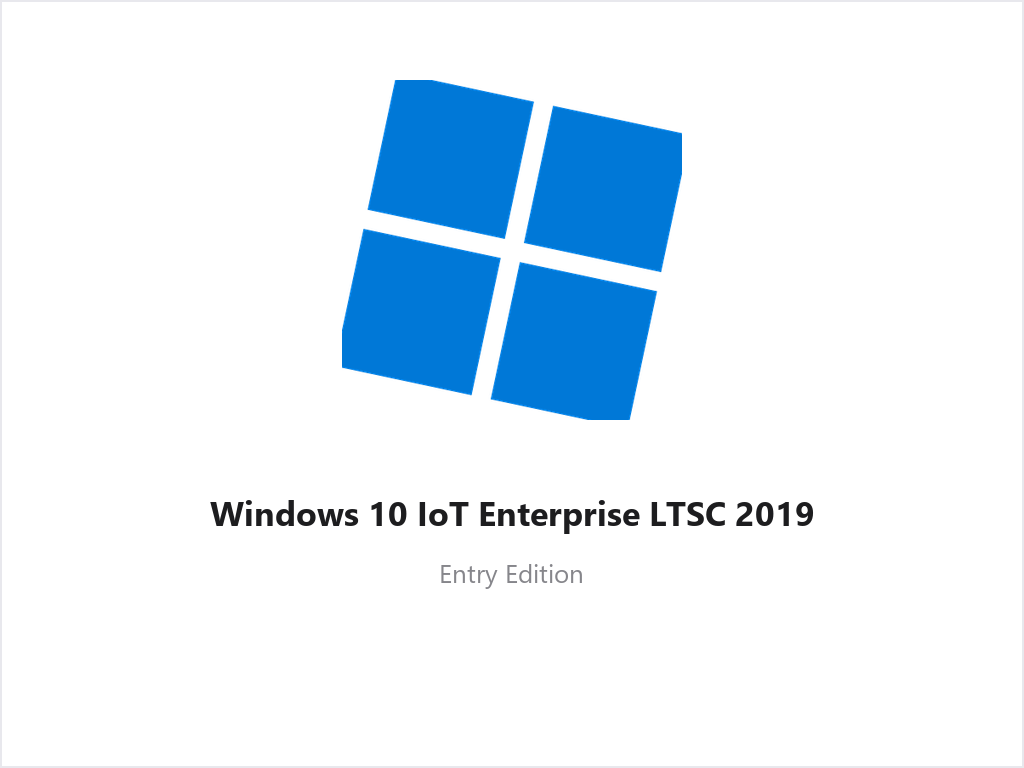
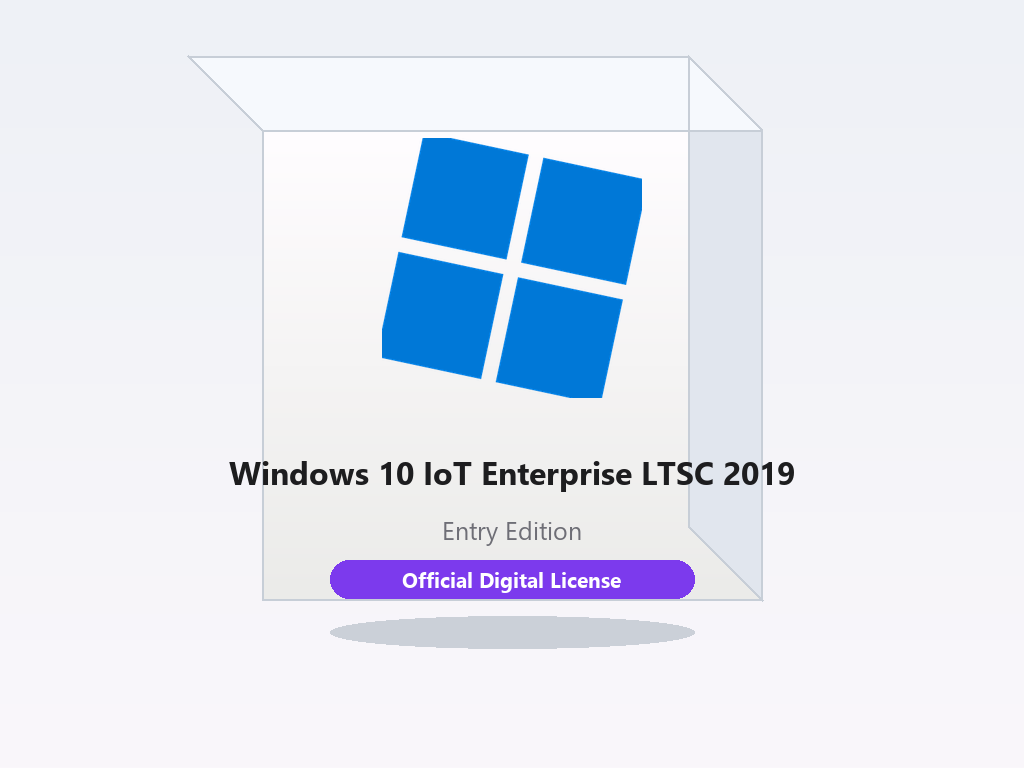
v7.5: upgrade product images to retail box style

diff --git a/dist/index.html b/dist/index.html
@@ -11,7 +11,7 @@
   <link rel="preconnect" href="https://fonts.googleapis.com">
   <link rel="preconnect" href="https://fonts.gstatic.com" crossorigin>
   <link href="https://fonts.googleapis.com/css2?family=Inter:wght@300;400;500;600;700;800&display=swap" rel="stylesheet">
-<link rel="stylesheet" href="https://cdnjs.cloudflare.com/ajax/libs/font-awesome/6.4.0/css/all.min.css">  <script type="module" crossorigin src="/assets/index-BidFnXS6.js"></script>
+<link rel="stylesheet" href="https://cdnjs.cloudflare.com/ajax/libs/font-awesome/6.4.0/css/all.min.css">  <script type="module" crossorigin src="/assets/index-C9FR7aT3.js"></script>
   <link rel="stylesheet" crossorigin href="/assets/index-DKBjzyQS.css">
 </head>
 <body>

diff --git a/scripts/gen-product-images.py b/scripts/gen-product-images.py
@@ -45,30 +45,54 @@ def sql_logo():
 
 def make_image(spec):
     kind, title, subtitle = spec["kind"], spec["title"], spec["subtitle"]
-    img = Image.new("RGB", (1024, 768), (255, 255, 255))
-    logo = None
-    if kind == "win11":
-        logo = Image.open(os.path.join(ROOT, "tmp", "logos", "win11.png")).convert("RGBA")
-        paste_layer(img, logo, 512, 250, 340, 320)
-    elif kind == "win10":
-        paste_layer(img, win10_logo(), 512, 250, 360, 340)
-    elif kind == "office":
-        paste_layer(img, office_logo(), 512, 250, 360, 340)
-    elif kind == "sql":
-        paste_layer(img, sql_logo(), 512, 250, 340, 340)
-    elif kind == "server11":
-        logo = Image.open(os.path.join(ROOT, "tmp", "logos", "win11.png")).convert("RGBA")
-        paste_layer(img, logo, 512, 250, 340, 320)
-    elif kind == "server10":
-        paste_layer(img, win10_logo(), 512, 250, 360, 340)
-
+    img = Image.new("RGB", (1024, 768), (238, 241, 246))
     d = ImageDraw.Draw(img)
-    tsize = 44 if len(title) <= 24 else 34
+
+    for y in range(768):
+        t = y / 767.0
+        c = (int(238 + (250 - 238) * t), int(241 + (247 - 241) * t), int(246 + (251 - 246) * t))
+        d.line([(0, y), (1024, y)], fill=c)
+
+    x0, y0, x1, y1 = 262, 130, 762, 600
+    off = 74
+
+    d.ellipse([330, 616, 694, 648], fill=(203, 208, 216))
+
+    for y in range(y0, y1):
+        t = (y - y0) / float(y1 - y0)
+        c = (int(255 - t * 20), int(253 - t * 18), int(255 - t * 22))
+        d.line([(x0, y), (x1, y)], fill=c)
+
+    d.polygon([(x1, y0), (x1 - off, y0 - off), (x1 - off, y1 - off), (x1, y1)], fill=(225, 230, 238))
+    d.polygon([(x0, y0), (x1, y0), (x1 - off, y0 - off), (x0 - off, y0 - off)], fill=(246, 249, 253))
+
+    outline = (199, 206, 215)
+    d.rectangle([x0, y0, x1, y1], outline=outline, width=2)
+    d.line([(x0, y0), (x0 - off, y0 - off)], fill=outline, width=2)
+    d.line([(x1, y0), (x1 - off, y0 - off)], fill=outline, width=2)
+    d.line([(x0 - off, y0 - off), (x1 - off, y0 - off)], fill=outline, width=2)
+    d.line([(x1 - off, y0 - off), (x1 - off, y1 - off)], fill=outline, width=2)
+    d.line([(x1 - off, y1 - off), (x1, y1)], fill=outline, width=2)
+
+    logo = None
+    if kind == "win11" or kind == "server11":
+        logo = Image.open(os.path.join(ROOT, "tmp", "logos", "win11.png")).convert("RGBA")
+        paste_layer(img, logo, 512, 268, 300, 260)
+    elif kind == "win10" or kind == "server10":
+        paste_layer(img, win10_logo(), 512, 268, 300, 260)
+    elif kind == "office":
+        paste_layer(img, office_logo(), 512, 268, 300, 260)
+    elif kind == "sql":
+        paste_layer(img, sql_logo(), 512, 268, 280, 260)
+
+    tsize = 42 if len(title) <= 24 else 32
     tf = font(tsize)
-    sf = font(26, bold=False)
-    d.text((512, 512), title, font=tf, fill=(29, 29, 31, 255), anchor="mm")
-    d.text((512, 572), subtitle, font=sf, fill=(134, 134, 139, 255), anchor="mm")
-    d.rectangle([0, 0, 1023, 767], outline=(232, 232, 237, 255), width=2)
+    sf = font(25, bold=False)
+    d.text((512, 472), title, font=tf, fill=(29, 29, 31, 255), anchor="mm")
+    d.text((512, 530), subtitle, font=sf, fill=(110, 110, 118, 255), anchor="mm")
+
+    d.rounded_rectangle([330, 560, 694, 598], radius=19, fill=(124, 58, 237, 255))
+    d.text((512, 579), "Official Digital License", font=font(21), fill=(255, 255, 255, 255), anchor="mm")
     return img
 
 products = [
